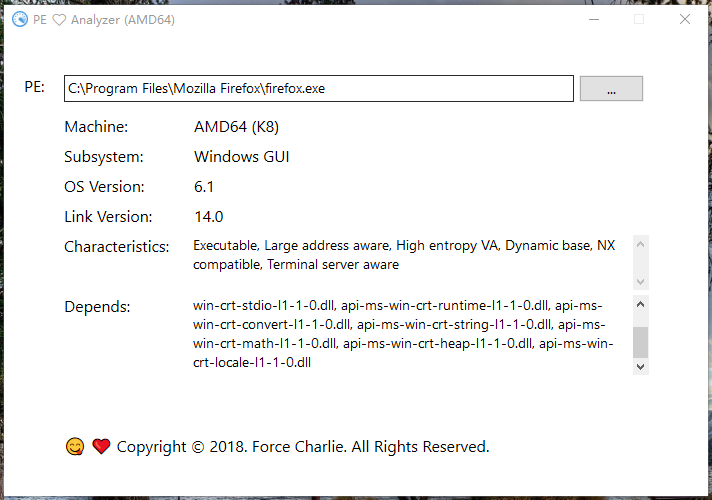
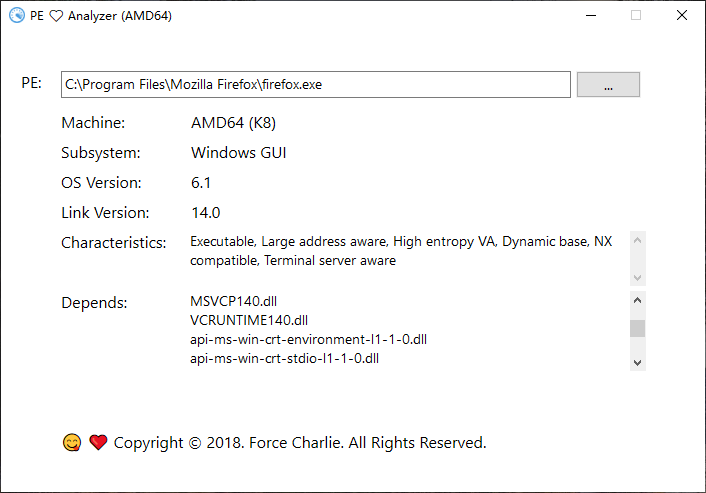
Depends use newline

diff --git a/PEAnalyzer/ui.cc b/PEAnalyzer/ui.cc
@@ -97,13 +97,14 @@ inline std::wstring Content(HWND hWnd) {
   return s;
 }
 
-inline std::wstring flatvector(const std::vector<std::wstring> &v) {
+inline std::wstring flatvector(const std::vector<std::wstring> &v,
+                               std::wstring_view delimiter = L", ") {
   std::wstring s;
   for (auto &i : v) {
-    s.append(i).append(L", ");
+    s.append(i).append(delimiter);
   }
   if (!s.empty()) {
-    s.resize(s.size() - 2);
+    s.resize(s.size() - delimiter.size());
   }
   return s;
 }
@@ -141,8 +142,9 @@ bool Window::Inquisitive() {
   hCharacteristics =
       CreateSubWindow(exs, WC_EDITW, flatvector(em->characteristics).c_str(),
                       es, 185, (int)y, 460, 55, nullptr);
-  hDepends = CreateSubWindow(exs, WC_EDITW, flatvector(em->depends).c_str(), es,
-                             185,(int) y + 60, 460, 80, nullptr);
+  hDepends =
+      CreateSubWindow(exs, WC_EDITW, flatvector(em->depends, L"\r\n").c_str(), es,
+                      185, (int)y + 60, 460, 80, nullptr);
   return true;
 }
 

diff --git a/ReadMe.md b/ReadMe.md
@@ -1,6 +1,6 @@
 # PE ❤ Analyzer
 
-On Windows,Executable (image) files are structured according to the Portable Executable (PE) format.  
+On Windows, Executable (image) files are structured according to the Portable Executable (PE) format.  
 
 However, People usually do not know what operating system to run on the PE file directly, 
 
@@ -11,8 +11,7 @@ Link Version, and OS Version. Entry Point.
 
 ## Build
 
-Must Visual Studio 2013 or later, C++11 support allow, and ATL header has included.     
-Recommend Visual Studio 2013 Community , or Visual Studio 2015 Community    
+Must Visual Studio 2017 or later, C++17 support allow, and ATL header has included.     
 
 Click PEAnalyzer.sln ,select menu Build -> Build Solution
 
@@ -22,7 +21,7 @@ Use MSbuild build Release win32:
 Win64:
 >msbuild PEAnalyzer.sln /t:Build /p:Configuration=Release /p:Platform=x64
 
-The features of this program that uses the Direct2D, you need to run on Windows 7 SP1 or later
+Windows 10 or Later
 
 ## Usage
 
